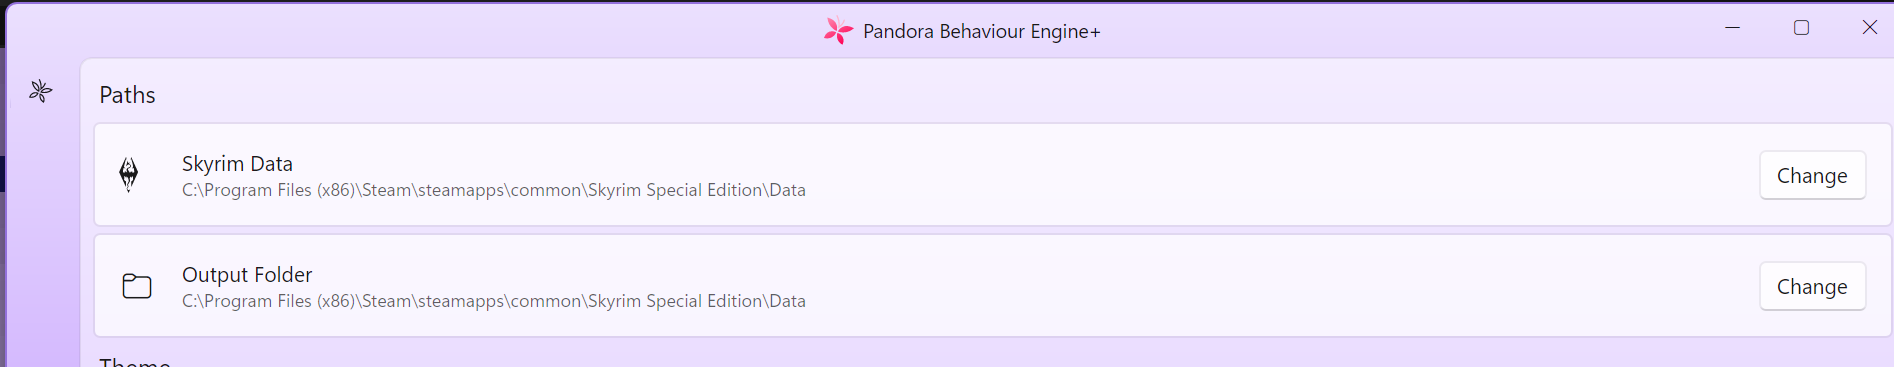
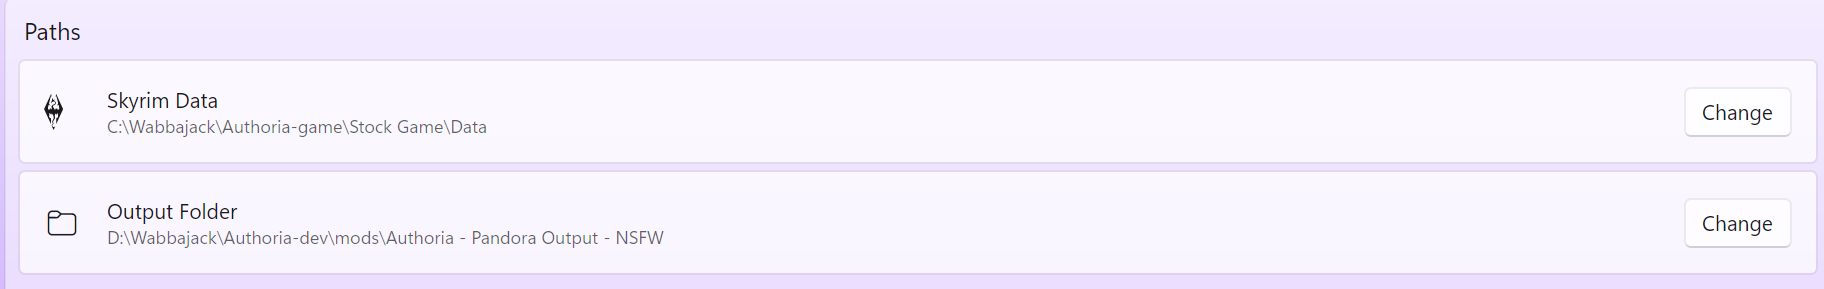
...

diff --git a/Authoria_Tool_Running_Guide.md b/Authoria_Tool_Running_Guide.md
@@ -156,8 +156,6 @@ This guide covers:
 
 4. Wait for it to finish. It should show a success message once it's done — press **OK** and you are done.
 
-   ![Screenshot](https://raw.githubusercontent.com/Drheisen1/Authoria-Requiem-Reforged/main/Resources/Tool%20Guide/Reqtificator4.png)
-
 5. Re-enable the plugins below the Reqtificator until you reach `Authoria - Output - NPC Appearances.esp`. Keep it **and everything below it** disabled, then continue with the next section.
 
 ---
